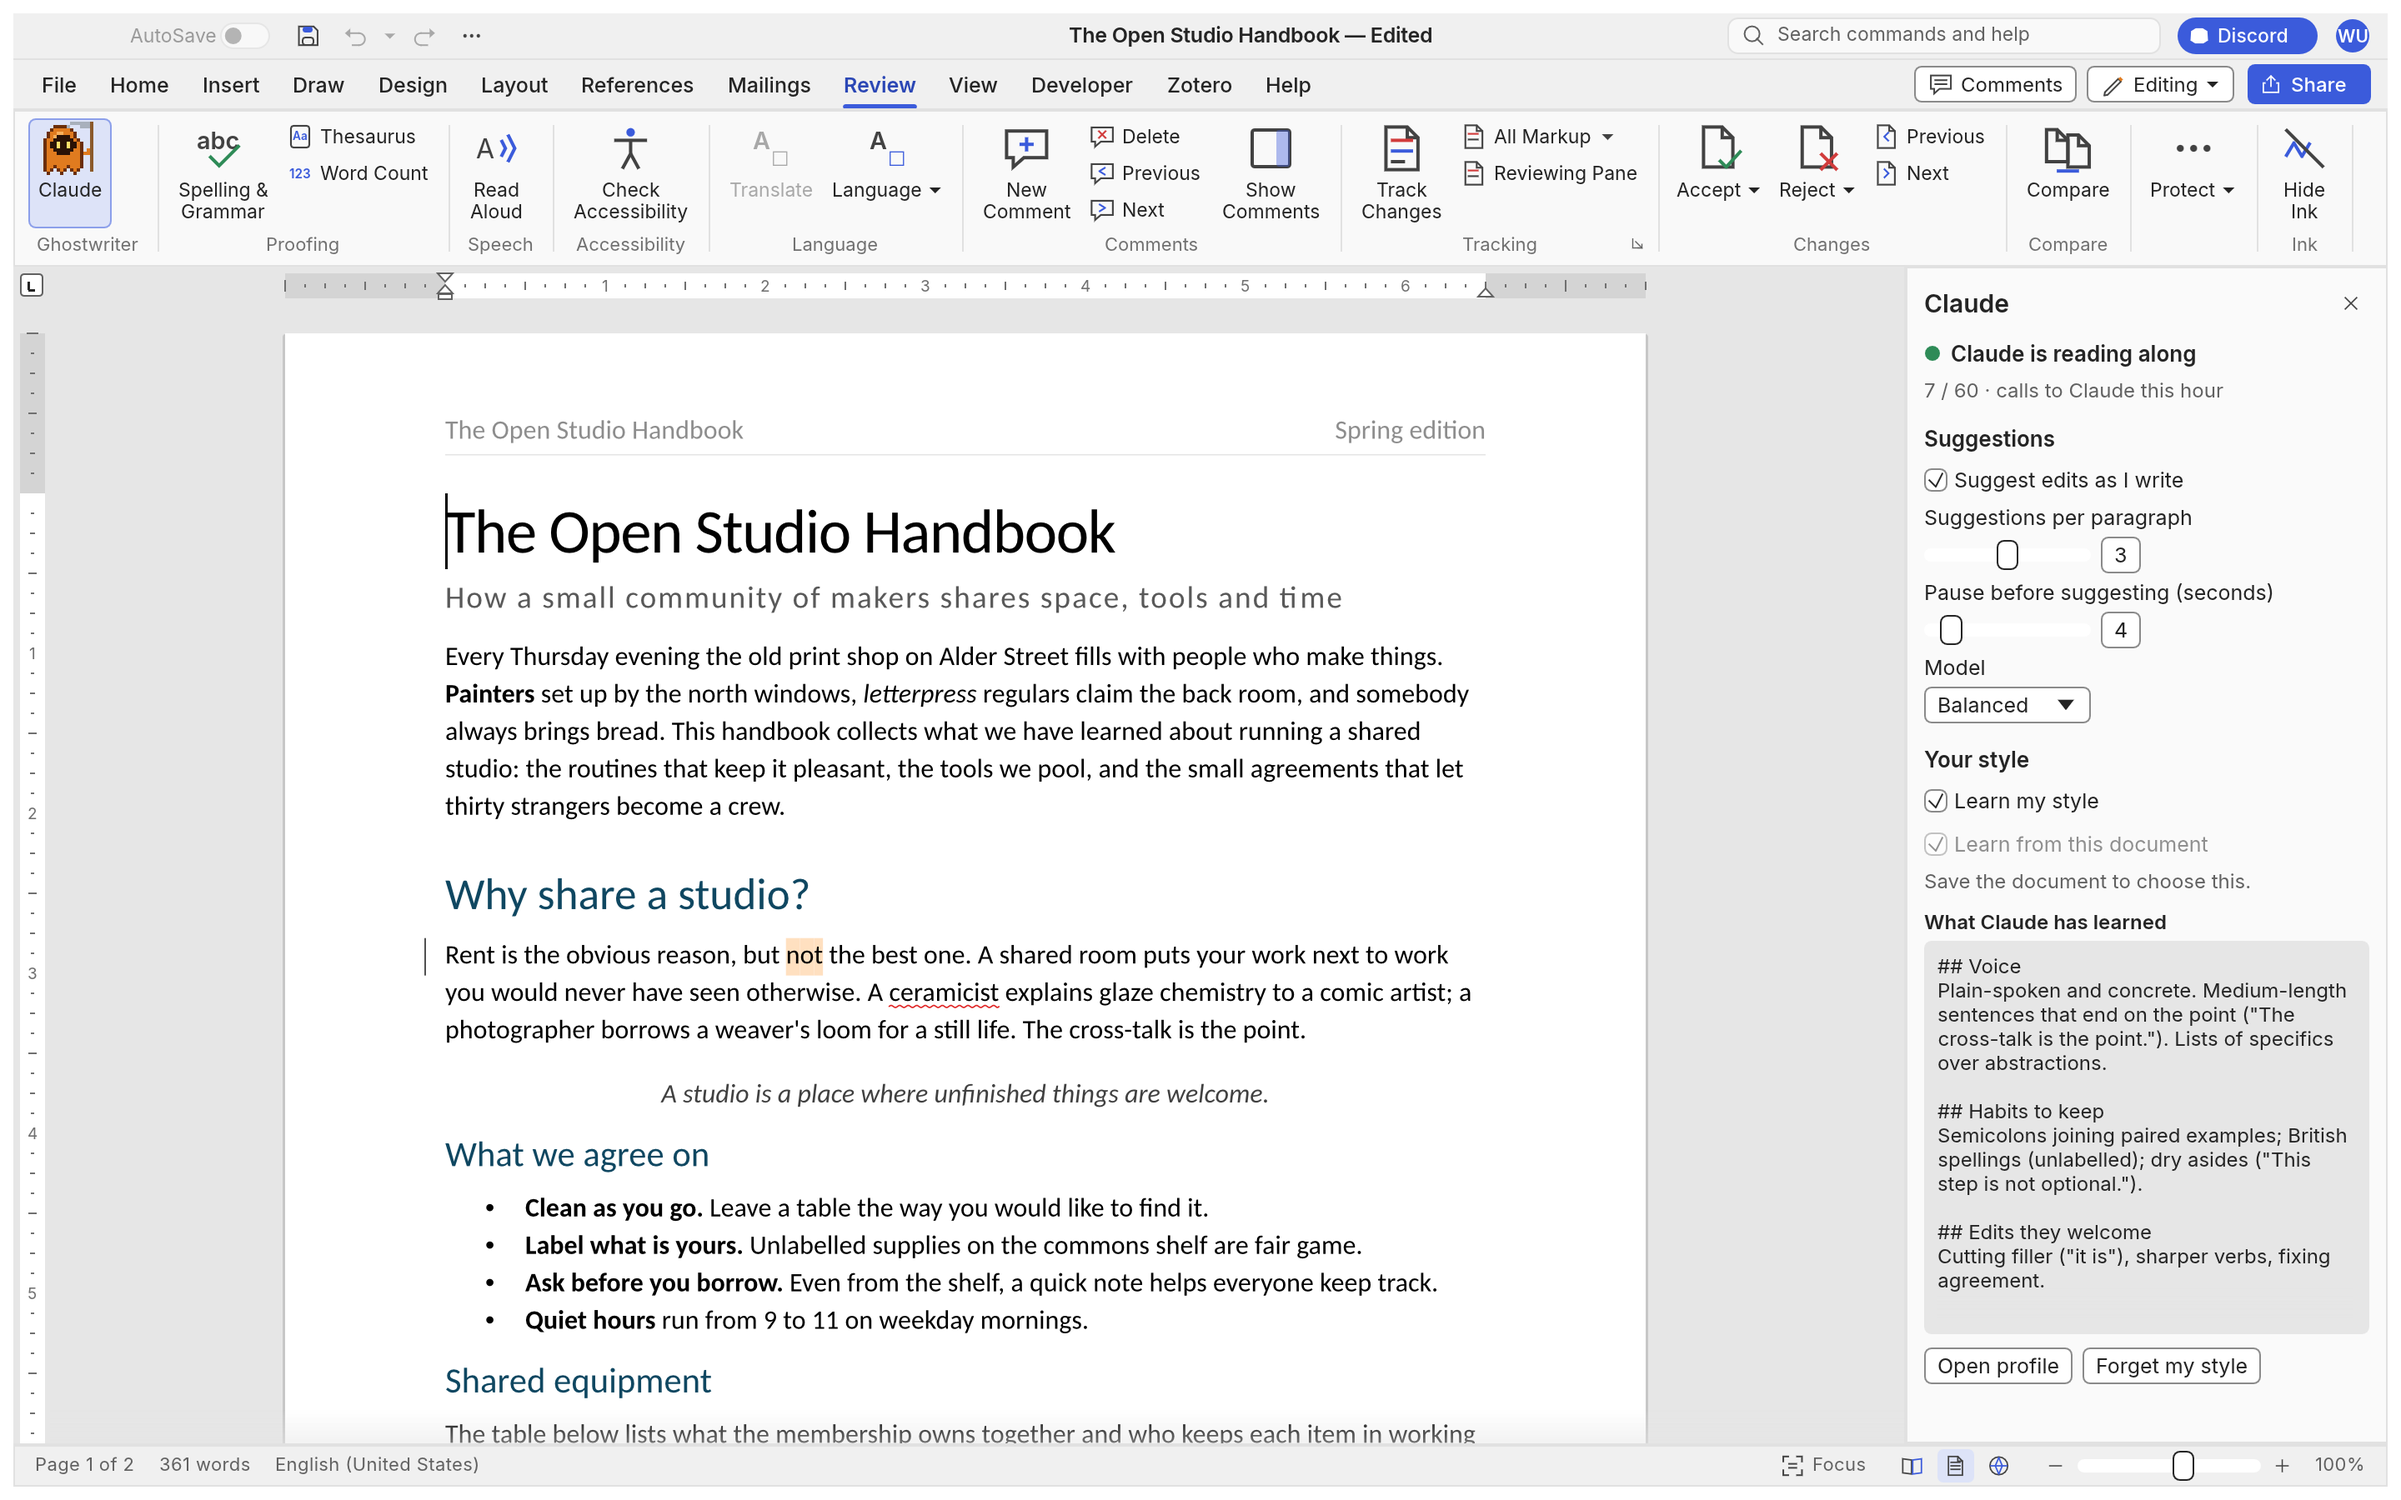
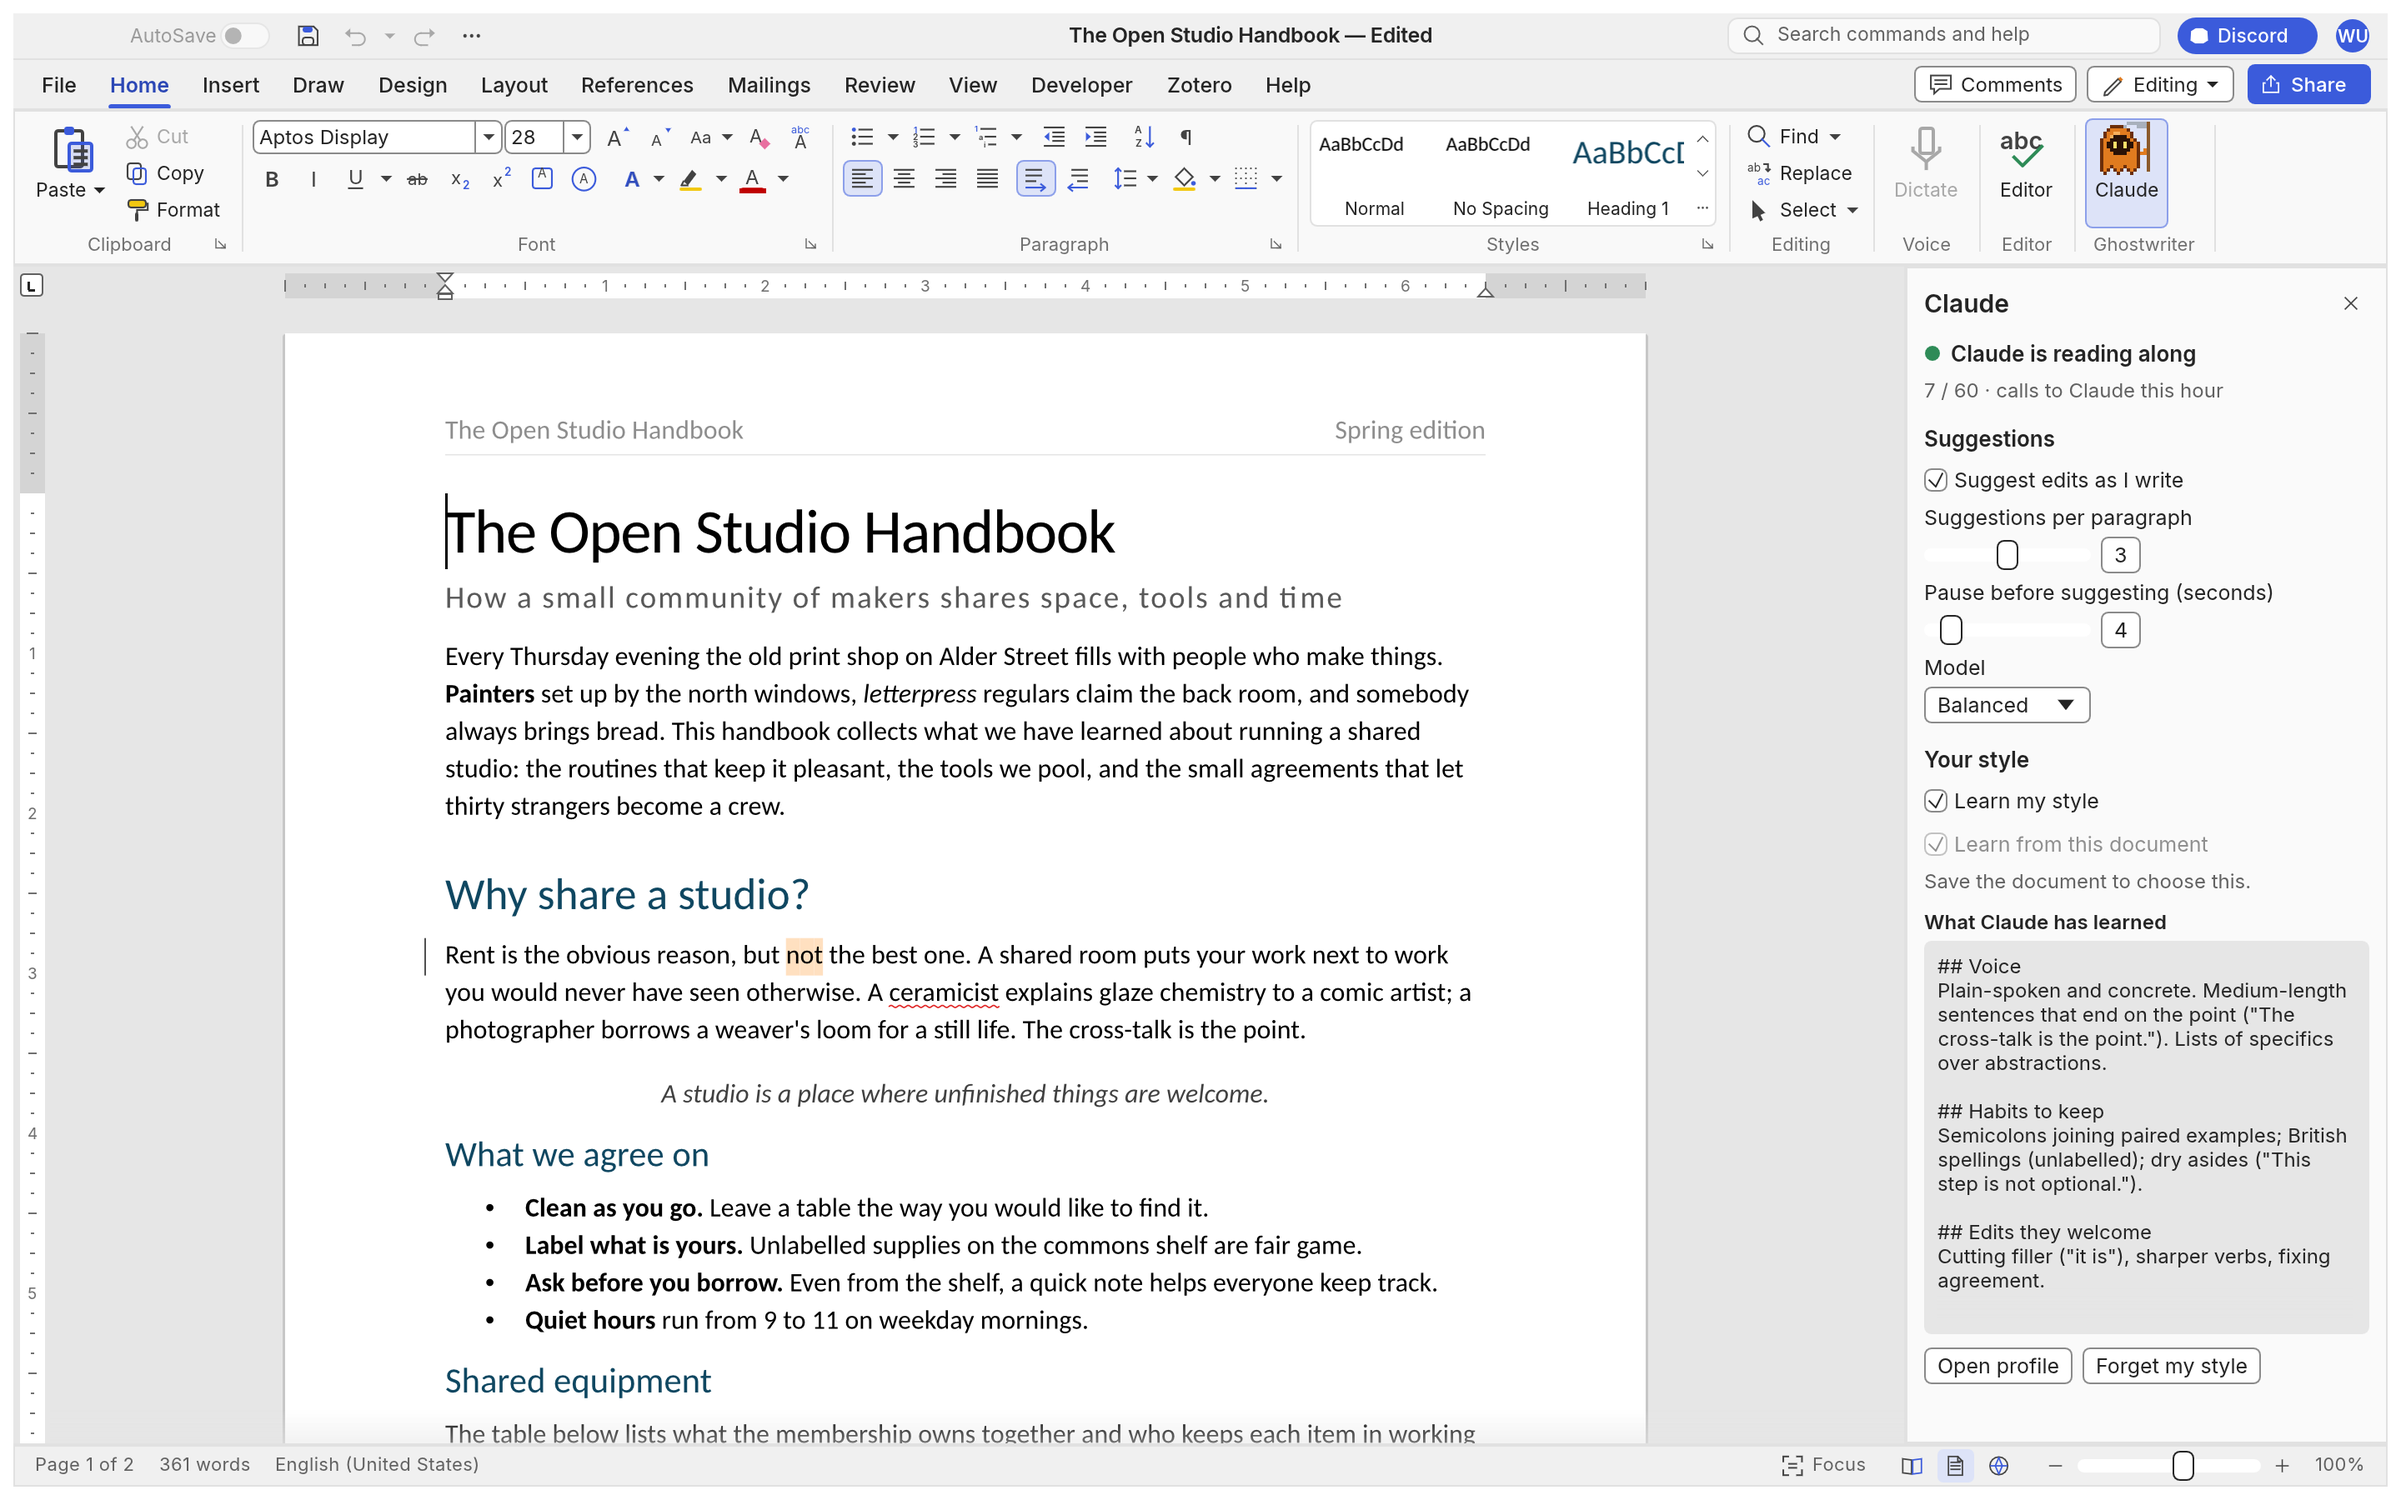
Claude panel: the Ghostwriter group moves to the end of the Home tab
Claude-Session: https://claude.ai/code/session_016nK5oNsWE95mDadxs99Vnx

diff --git a/apps/wordcraft-companion/src/main.rs b/apps/wordcraft-companion/src/main.rs
@@ -57,7 +57,7 @@ LEARNING YOUR STYLE (on by default, nothing to set up; see docs/companion.md):
   --learn-only           learn from your decisions (e.g. on Claude Code's suggestions), suggest nothing
   --no-learn             neither record decisions nor use the profile
 
-The Claude panel in Ghostwriter (Review › Claude) changes these while the companion runs; what
+The Claude panel in Ghostwriter (Home › Claude) changes these while the companion runs; what
 you set there wins over the options above.
   --exit-with-app        stop when the Ghostwriter window closes (the panel's Start button uses it)
   --dry-run              print suggestions instead of posting them
@@ -319,7 +319,7 @@ fn run(base: Options) -> Result<(), String> {
         watch.mark_all(&first);
     }
     log(&format!(
-        "watching {} — suggestions after a pause, learning your style; the Claude panel (Review › Claude) sets both. Ctrl+C stops.",
+        "watching {} — suggestions after a pause, learning your style; the Claude panel (Home › Claude) sets both. Ctrl+C stops.",
         o.connect
     ));
     if let Some(l) = &learner {

diff --git a/crates/ui-egui/src/suggest/pane.rs b/crates/ui-egui/src/suggest/pane.rs
@@ -1,4 +1,4 @@
-//! The Claude panel (fork addition, see `docs/companion.md`): Review › Claude, or "Claude" in the
+//! The Claude panel (fork addition, see `docs/companion.md`): Home › Claude, or "Claude" in the
 //! command search (`suggest.panel`, which keeps whether it's open). It shows whether the companion is running (and starts it),
 //! and sets what it does: suggestions on or off, how many and how soon, the model, learning the
 //! writer's style (also per document), and the style profile itself.
@@ -14,7 +14,7 @@ use crate::WordApp;
 use crate::theme::Tokens;
 use crate::widgets::{big_toggle, group};
 
-/// The Review tab's Ghostwriter group: the Claude button.
+/// The Home tab's Ghostwriter group, last on the tab: the Claude button.
 pub fn ribbon_group(app: &mut WordApp, ui: &mut Ui) {
     group(ui, "Ghostwriter", None, app, |ui, app| {
         big_toggle(ui, app, "ghostwriter", "Claude", "suggest.panel", panel_open());

diff --git a/crates/engine/src/cmd/suggest.rs b/crates/engine/src/cmd/suggest.rs
@@ -72,7 +72,7 @@ pub fn specs() -> Vec<CommandSpec> {
         CommandSpec::new("suggest.withdraw", "Withdraw Suggestion", "Review › Companion", |s, v| resolve(s, v, None))
             .params(r#"{"id"?: n, "all"?: bool}"#)
             .pure(),
-        CommandSpec::new("suggest.panel", "Claude", "Review › Claude", panel).params(r#"{"value"?: bool} (without: toggle)"#).pure(),
+        CommandSpec::new("suggest.panel", "Claude", "Home › Ghostwriter", panel).params(r#"{"value"?: bool} (without: toggle)"#).pure(),
         CommandSpec::new("suggest.decisions", "Suggestion Decisions", "Review › Companion", decisions)
             .params(r#"{"since"?: n} → {"next": n, "decisions": [{"seq", "verdict": "accepted"|"rejected", "text", "replaces", "context", "bulk"}]}"#)
             .pure(),

diff --git a/crates/ui-egui/src/ribbon.rs b/crates/ui-egui/src/ribbon.rs
@@ -1213,6 +1213,7 @@ fn home(app: &mut WordApp, ui: &mut Ui) {
     group(ui, "Editor", None, app, |ui, app| {
         big(ui, app, "editor", "Editor", "review.spelling", json!({}), false);
     });
+    crate::suggest::pane::ribbon_group(app, ui); // companion hook
 }
 
 fn insert(app: &mut WordApp, ui: &mut Ui) {
@@ -1977,7 +1978,6 @@ fn zotero(app: &mut WordApp, ui: &mut Ui) {
 }
 
 fn review(app: &mut WordApp, ui: &mut Ui) {
-    crate::suggest::pane::ribbon_group(app, ui); // companion hook
     group(ui, "Proofing", None, app, |ui, app| {
         big(ui, app, "spelling", "Spelling &\nGrammar", "review.spelling", json!({}), false);
         stack(ui, |ui| {

diff --git a/docs/companion.md b/docs/companion.md
@@ -23,7 +23,7 @@ login (your subscription). No API key.
    **More info → Run anyway**. Ghostwriter installs beside WordCraft, not over it.
 3. Start **Ghostwriter** from the Start menu or by opening a document. The installer sets
    `WORDCRAFT_CONTROL_PORT=7981`, so every window opens the port the companion uses.
-4. Open the **Claude** panel (Review › **Claude**) and click **Start Claude**. (The portable zip
+4. Open the **Claude** panel (Home › **Claude**) and click **Start Claude**. (The portable zip
    has the same three programs, unzipped anywhere. There, set the port yourself, as in step 3
    below.)
 
@@ -68,7 +68,7 @@ login (your subscription). No API key.
 
 ## The Claude panel
 
-Review › **Claude** (or "Claude" in the search box) opens a panel on the right of the window:
+Home › **Claude** (or "Claude" in the search box) opens a panel on the right of the window:
 
 | | |
 |---|---|
@@ -233,7 +233,7 @@ All code is in new files, except a few hooks, each marked `companion hook`
 - `crates/layout/src/display.rs` (two lines): suggested words on orange, drawn as plain text.
 - `crates/ui-egui/src/suggest.rs` + one call in `crates/ui-egui/src/lib.rs`: the ✓/✗ card.
 - `crates/ui-egui/src/suggest/pane.rs`: the Claude panel and its ribbon button, hooked in with one
-  line each in `lib.rs` (the panel), `ribbon.rs` (Review › Claude) and `icons.rs` (the
+  line each in `lib.rs` (the panel), `ribbon.rs` (Home › Claude) and `icons.rs` (the
   reaper-ghost mascot, pixel art in `pane.rs`), and the `wordcraft-mcp`
   dependency in `crates/ui-egui/Cargo.toml`. Whether it's open is kept by `suggest.panel` in
   `crates/engine/src/cmd/suggest.rs`.

diff --git a/ROADMAP.md b/ROADMAP.md
@@ -25,7 +25,7 @@ in [`docs/`](docs/). Ghostwriter takes those improvements by merging upstream (s
 | Windows | done: x64 and ARM64 installers and portable zips, unsigned |
 | macOS, Linux | builds from source; no packages |
 | Learning your style | done (unreleased): accepts and rejects noted in a feedback log; a style profile Claude builds from your writing by itself (first after ~150 words) and refines from your decisions; rejected edits not repeated; MCP clients get the profile too |
-| Claude panel | done (unreleased): Review › Claude; start Claude from the window, suggestions and learning on/off, per-document learning, model, profile preview, forget; live, no restart |
+| Claude panel | done (unreleased): Home › Claude; start Claude from the window, suggestions and learning on/off, per-document learning, model, profile preview, forget; live, no restart |
 | Interface languages | the suggestion commands are translated into all 22 of WordCraft's languages |
 
 ## Next
@@ -43,7 +43,7 @@ in [`docs/`](docs/). Ghostwriter takes those improvements by merging upstream (s
 
 ## Progress log
 
-- **2026-10-20 · Claude panel.** Review › Claude: start Claude from the window, switch suggestions
+- **2026-10-20 · Claude panel.** Home › Claude: start Claude from the window, switch suggestions
   and learning on or off (also per document), pick the model, see and forget what it has learned.
   The companion follows the panel live and stops with the window.
 - **2026-10-20 · learning.** Claude works out your style from your own paragraphs (the first profile

diff --git a/README.md b/README.md
@@ -67,11 +67,11 @@ The portable zip has the same programs without an installer, plus the Claude Cod
 
 ## Write with Claude
 
-Open the **Claude** panel (Review › **Claude**, or type "Claude" in the search box) and click
+Open the **Claude** panel (Home › **Claude**, or type "Claude" in the search box) and click
 **Start Claude**. That's it: Claude reads along as you write and stops when you close the window.
 
 <p align="center">
-  <img src="docs/images/claude-panel.png" alt="Ghostwriter with the Claude panel open on the right: a green dot and 'Claude is reading along', switches for suggestions and for learning your style, sliders for suggestions per paragraph and the pause before suggesting, a model choice, and a box showing what Claude has learned about the writer's voice." width="100%">
+  <img src="docs/images/claude-panel.png" alt="Ghostwriter with the Claude button at the end of the Home tab and the Claude panel open on the right: a green dot and 'Claude is reading along', switches for suggestions and for learning your style, sliders for suggestions per paragraph and the pause before suggesting, a model choice, and a box showing what Claude has learned about the writer's voice." width="100%">
 </p>
 
 The panel is where you steer it, and changes apply at once:
